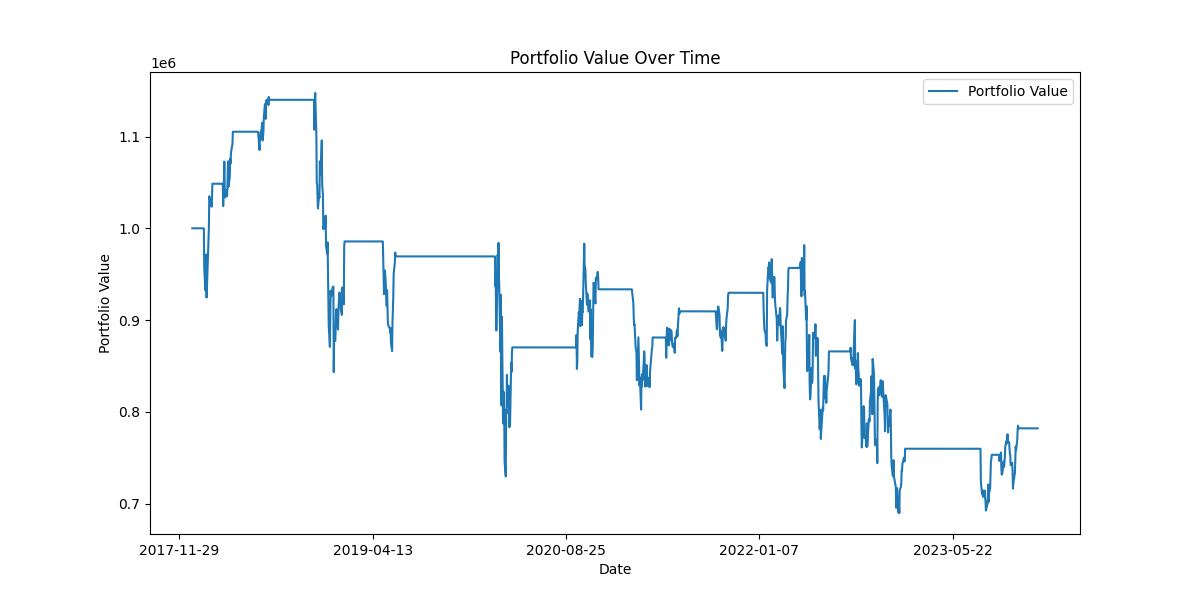
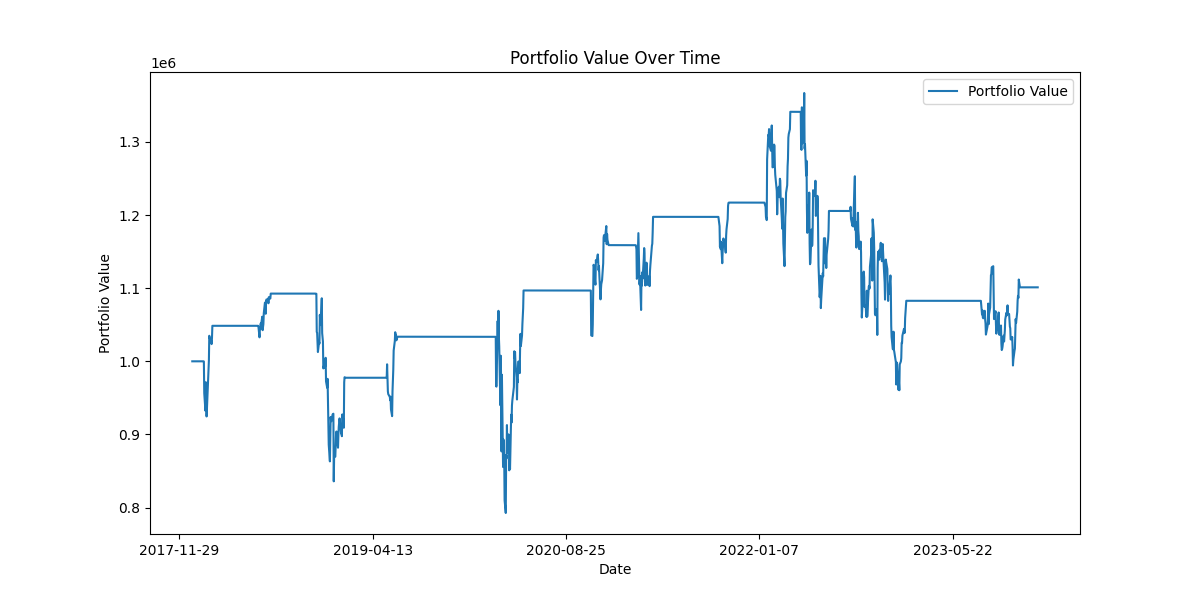
double backtester, not equilibrated yet

diff --git a/modules/live_sim_backtest.py b/modules/live_sim_backtest.py
@@ -1,21 +1,26 @@
-def run_backtest(trading_signals, starting_cash=1000000, commission=0.001, spread=0.01):
+import pandas as pd
+from datetime import timedelta
 
-    import pandas as pd
-    from datetime import timedelta
+def run_live_simulation(strategy_function, data, starting_cash=1000000, commission=0.001, spread=0.01, params=None):
 
     """
-    Run a backtest based on buy and sell actions.
+    Run a live simulation backtest based on a strategy function.
 
     Parameters:
-    - trading_signals (DataFrame): Contains 'datetime', 'action', and 'price' columns.
-    - starting_cash (float): The initial amount of cash. Default is $1,000,000.
-    - commission (float): The percentage commission on each trade. Default is 0.001 (0.1%).
-    - spread (float): The price spread in dollars. Default is $0.01.
+    - strategy_function (callable): The strategy function to test (e.g., should_buy_live).
+    - data (DataFrame): Contains 'Date' and 'Close' columns with historical price data.
+    - starting_cash (float): The initial amount of cash.
+    - commission (float): The percentage commission on each trade.
+    - spread (float): The price spread in dollars.
+    - params (dict): Parameters to pass to the strategy function.
 
     Returns:
     - dict: Contains trade details and performance metrics.
     - DataFrame: The trading signals DataFrame with portfolio values.
     """
+
+    if params is None:
+        params = {}
 
     cash = starting_cash
     position = 0
@@ -24,33 +29,42 @@ def run_backtest(trading_signals, starting_cash=1000000, commission=0.001, sprea
     trades_history = []
     portfolio_values = []
 
-    trading_signals = trading_signals.sort_values('Date').reset_index(drop=True)
-    for index, row in trading_signals.iterrows():
-        action = row['action']
-        price = row['Close']
-        time = row['Date']
+    data = data.sort_values('Date').reset_index(drop=True)
+    data['action'] = 'none'
+
+    for i in range(len(data)):
+        current_time = data.at[i, 'Date']
+        current_price = data.at[i, 'Close']
+        current_data = data.iloc[:i+1]
+
+        if i < params.get('window', 14):
+            action = 'none'
+        else:
+            action = strategy_function(current_data, params)
+
+        data.at[i, 'action'] = action
 
         if action == 'buy' and position == 0:
-            buy_price = price + spread
+            buy_price = current_price + spread
             buy_cost = cash * (1 - commission)
             position = buy_cost / buy_price
             cash -= buy_cost
             entry_price = buy_price
-            entry_time = time
+            entry_time = current_time
 
         elif action == 'sell' and position > 0:
-            sell_price = price - spread
+            sell_price = current_price - spread
             sell_revenue = position * sell_price * (1 - commission)
             cash += sell_revenue
             profit = sell_revenue - (position * entry_price)
-            profit_percent = (profit / (position * entry_price))
-            time_held = time - entry_time
+            profit_percent = profit / (position * entry_price)
+            time_held = current_time - entry_time
 
             trades_history.append({
                 'purchase_price': entry_price,
                 'sale_price': sell_price,
                 'purchase_date': entry_time,
-                'sale_date': time,
+                'sale_date': current_time,
                 'profit_loss_percent': profit_percent,
                 'profit_loss_dollars': profit,
                 'time_held': time_held
@@ -60,23 +74,22 @@ def run_backtest(trading_signals, starting_cash=1000000, commission=0.001, sprea
             entry_price = 0
             entry_time = None
 
-        # Calculate portfolio value
-        portfolio_value = cash + (position * price if position > 0 else 0)
+        portfolio_value = cash + (position * current_price if position > 0 else 0)
         portfolio_values.append(portfolio_value)
 
     if position > 0:
-        sell_price = trading_signals.iloc[-1]['Close'] - spread
+        sell_price = data.iloc[-1]['Close'] - spread
         sell_revenue = position * sell_price * (1 - commission)
         cash += sell_revenue
         profit = sell_revenue - (position * entry_price)
-        profit_percent = (profit / (position * entry_price))
-        time_held = trading_signals.iloc[-1]['Date'] - entry_time
+        profit_percent = profit / (position * entry_price)
+        time_held = data.iloc[-1]['Date'] - entry_time
 
         trades_history.append({
             'purchase_price': entry_price,
             'sale_price': sell_price,
             'purchase_date': entry_time,
-            'sale_date': trading_signals.iloc[-1]['Date'],
+            'sale_date': data.iloc[-1]['Date'],
             'profit_loss_percent': profit_percent,
             'profit_loss_dollars': profit,
             'time_held': time_held
@@ -84,9 +97,8 @@ def run_backtest(trading_signals, starting_cash=1000000, commission=0.001, sprea
 
     total_trades = len(trades_history)
     total_money_made = cash - starting_cash
-    total_percentage_gain = (total_money_made / starting_cash)
-
-    total_days = (trading_signals['Date'].iloc[-1] - trading_signals['Date'].iloc[0]).days or 1
+    total_percentage_gain = total_money_made / starting_cash
+    total_days = (data['Date'].iloc[-1] - data['Date'].iloc[0]).days or 1
 
     time_held_list = [trade['time_held'] for trade in trades_history]
     if time_held_list:
@@ -96,7 +108,7 @@ def run_backtest(trading_signals, starting_cash=1000000, commission=0.001, sprea
         average_time_holding_position = timedelta(0)
         longest_time_position_held = timedelta(0)
 
-    trading_signals['portfolio_value'] = portfolio_values
+    data['portfolio_value'] = portfolio_values
 
     return {
         'trades_history': trades_history,
@@ -108,5 +120,5 @@ def run_backtest(trading_signals, starting_cash=1000000, commission=0.001, sprea
         'average_monthly_percentage_gain': total_percentage_gain / (total_days / 30),
         'average_time_holding_position': average_time_holding_position,
         'longest_time_position_held': longest_time_position_held,
-        'trading_signals': trading_signals
-    }, trading_signals
+        'trading_signals': data
+    }, data

diff --git a/main.py b/main.py
@@ -6,29 +6,47 @@ if __name__ == "__main__":
     from data_collection.fetch_data import fetch_historical_data
     df = fetch_historical_data('AAPL', '1d', '2018-01-01', '2024-01-01')
     
-    from strategies.RSI_Strategy import rsi_strategy
-    trading_signals = rsi_strategy(df)
-
+    from strategies.RSI_Strategy import strategy, should_buy_live
     from modules.backtester import run_backtest
+    from modules.live_sim_backtest import run_live_simulation
+
+    params = {'rsi_buy_threshold': 25, 'rsi_sell_threshold': 75, 'window': 14}
+
     # Run the backtest
-    results, trading_signals_with_portfolio = run_backtest(trading_signals)
+    trading_signals = strategy(df, params)
+    backtest_results, trading_signals_with_portfolio = run_backtest(trading_signals)
 
-    # Print summary results
-    print("Total trades:", results['total_trades'])
-    print("Final cash:", results['final_cash'])
-    print("Total amount of money made:", results['total_amount_of_money_made'])
-    print("Total percentage gain:", results['total_percentage_gain'])
-    print("Average yearly percentage gain:", results['average_yearly_percentage_gain'])
-    print("Average monthly percentage gain:", results['average_monthly_percentage_gain'])
-    print("Average time holding position:", results['average_time_holding_position'])
-    print("Longest time position held:", results['longest_time_position_held'])
+    # Run the live simulation backtest
+    live_sim_results, live_trading_signals_with_portfolio = run_live_simulation(should_buy_live, df, params=params)
 
-    # Plot portfolio value over time
+    # Print summary results for backtest
+    print("Backtest Results:")
+    print("Total trades:", backtest_results['total_trades'])
+    print("Final cash:", backtest_results['final_cash'])
+    print("Total amount of money made:", backtest_results['total_amount_of_money_made'])
+    print("Total percentage gain:", backtest_results['total_percentage_gain'])
+    print("Average yearly percentage gain:", backtest_results['average_yearly_percentage_gain'])
+    print("Average monthly percentage gain:", backtest_results['average_monthly_percentage_gain'])
+    print("Average time holding position:", backtest_results['average_time_holding_position'])
+    print("Longest time position held:", backtest_results['longest_time_position_held'])
+
+    # Print summary results for live simulation
+    print("\nLive Simulation Results:")
+    print("Total trades:", live_sim_results['total_trades'])
+    print("Final cash:", live_sim_results['final_cash'])
+    print("Total amount of money made:", live_sim_results['total_amount_of_money_made'])
+    print("Total percentage gain:", live_sim_results['total_percentage_gain'])
+    print("Average yearly percentage gain:", live_sim_results['average_yearly_percentage_gain'])
+    print("Average monthly percentage gain:", live_sim_results['average_monthly_percentage_gain'])
+    print("Average time holding position:", live_sim_results['average_time_holding_position'])
+    print("Longest time position held:", live_sim_results['longest_time_position_held'])
+
+    # Plot portfolio value over time for backtest
     plt.figure(figsize=(12, 6))
-    plt.plot(trading_signals_with_portfolio['Date'], trading_signals_with_portfolio['portfolio_value'], label='Portfolio Value')
+    plt.plot(trading_signals_with_portfolio['Date'], trading_signals_with_portfolio['portfolio_value'], label='Backtest Portfolio Value')
     plt.xlabel('Date')
     plt.ylabel('Portfolio Value')
-    plt.title('Portfolio Value Over Time')
+    plt.title('Backtest Portfolio Value Over Time')
 
     # Determine the x-axis ticks
     total_days = (trading_signals_with_portfolio['Date'].iloc[-1] - trading_signals_with_portfolio['Date'].iloc[0]).days
@@ -40,5 +58,23 @@ if __name__ == "__main__":
         plt.gca().xaxis.set_major_locator(plt.MaxNLocator(90))
 
     plt.legend()
-    # plt.show()
-    plt.savefig('portfolio_value.png')  # Save the plot to a file
+    plt.savefig('backtest_portfolio_value.png')  # Save the plot to a file
+
+    # Plot portfolio value over time for live simulation
+    plt.figure(figsize=(12, 6))
+    plt.plot(live_trading_signals_with_portfolio['Date'], live_trading_signals_with_portfolio['portfolio_value'], label='Live Simulation Portfolio Value')
+    plt.xlabel('Date')
+    plt.ylabel('Portfolio Value')
+    plt.title('Live Simulation Portfolio Value Over Time')
+
+    # Determine the x-axis ticks
+    total_days = (live_trading_signals_with_portfolio['Date'].iloc[-1] - live_trading_signals_with_portfolio['Date'].iloc[0]).days
+    if total_days > 3 * 365:
+        plt.gca().xaxis.set_major_locator(plt.MaxNLocator(5))
+    elif total_days > 3 * 30:
+        plt.gca().xaxis.set_major_locator(plt.MaxNLocator(24))
+    else:
+        plt.gca().xaxis.set_major_locator(plt.MaxNLocator(90))
+
+    plt.legend()
+    plt.savefig('live_simulation_portfolio_value.png')  # Save the plot to a file

diff --git a/strategies/RSI_Strategy.py b/strategies/RSI_Strategy.py
@@ -8,22 +8,49 @@ def calculate_rsi(data, window):
     rsi = 100 - (100 / (1 + rs))
     return rsi
 
-def rsi_strategy(data, rsi_buy_threshold=30, rsi_sell_threshold=70, window=14):
+def check_rsi_action(current_rsi, previous_rsi, rsi_buy_threshold, rsi_sell_threshold):
+    if current_rsi < rsi_buy_threshold and previous_rsi >= rsi_buy_threshold:
+        return 'buy'
+    elif current_rsi > rsi_sell_threshold and previous_rsi <= rsi_sell_threshold:
+        return 'sell'
+    return 'none'
+
+def strategy(data, params={'rsi_buy_threshold': 25, 'rsi_sell_threshold': 75, 'window': 14}):
+    rsi_buy_threshold = params.get('rsi_buy_threshold')
+    rsi_sell_threshold = params.get('rsi_sell_threshold')
+    window = params.get('window')
+    
     data_copy = data.copy()
     data_copy['RSI'] = calculate_rsi(data_copy, window)
     data_copy['action'] = "none"
     
     for i in range(1, len(data_copy)):
-        if data_copy['RSI'].iloc[i] < rsi_buy_threshold and data_copy['RSI'].iloc[i-1] >= rsi_buy_threshold:
-            data_copy.at[i, 'action'] = 'buy'
-        elif data_copy['RSI'].iloc[i] > rsi_sell_threshold and data_copy['RSI'].iloc[i-1] <= rsi_sell_threshold:
-            data_copy.at[i, 'action'] = 'sell'
+        data_copy.at[i, 'action'] = check_rsi_action(
+            current_rsi=data_copy['RSI'].iloc[i],
+            previous_rsi=data_copy['RSI'].iloc[i - 1],
+            rsi_buy_threshold=rsi_buy_threshold,
+            rsi_sell_threshold=rsi_sell_threshold
+        )
     
     return data_copy
 
+def should_buy_live(data, params={'rsi_buy_threshold': 25, 'rsi_sell_threshold': 75, 'window': 14}):
+    if len(data) < 2:
+        raise ValueError("Insufficient data to calculate RSI")
+    
+    rsi_buy_threshold = params.get('rsi_buy_threshold')
+    rsi_sell_threshold = params.get('rsi_sell_threshold')
+    window = params.get('window')
+    
+    recent_data = data[-(window + 1):]  # Only take the last `window` periods
+    recent_rsi = calculate_rsi(recent_data, window)
+    
+    current_rsi = recent_rsi.iloc[-1]
+    previous_rsi = recent_rsi.iloc[-2]
+    
+    return check_rsi_action(current_rsi, previous_rsi, rsi_buy_threshold, rsi_sell_threshold)
+
 # Example usage:
-# from data_collection.fetch_data import fetch_historical_data
 # df = fetch_historical_data('AAPL', '1d', '2018-01-01', '2024-01-01')
-# result = rsi_strategy(df)
-# for index, row in result.iterrows():
-#     print(f"Date: {row['Date']}, Close: {row['Close']}, RSI: {row['RSI']}, Action: {row['action']}")
+# params = {'rsi_buy_threshold': 25, 'rsi_sell_threshold': 75, 'window': 14}
+# print(should_buy_live(df, params))
